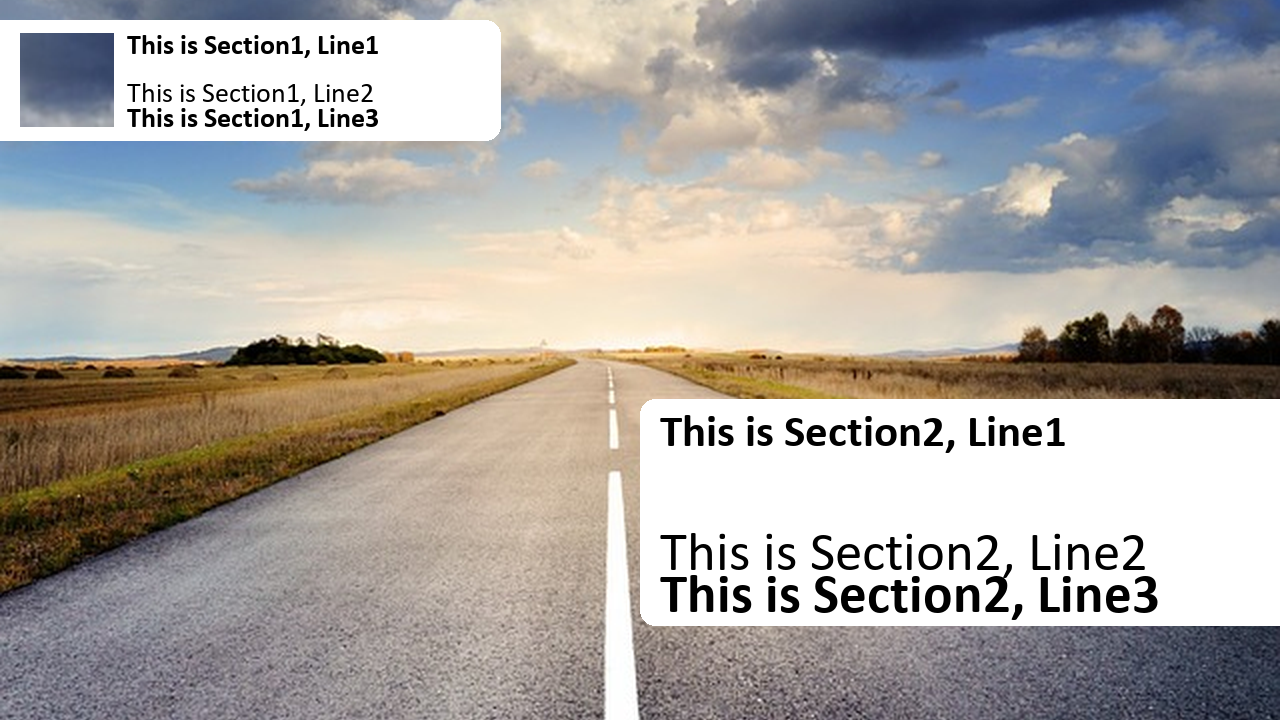
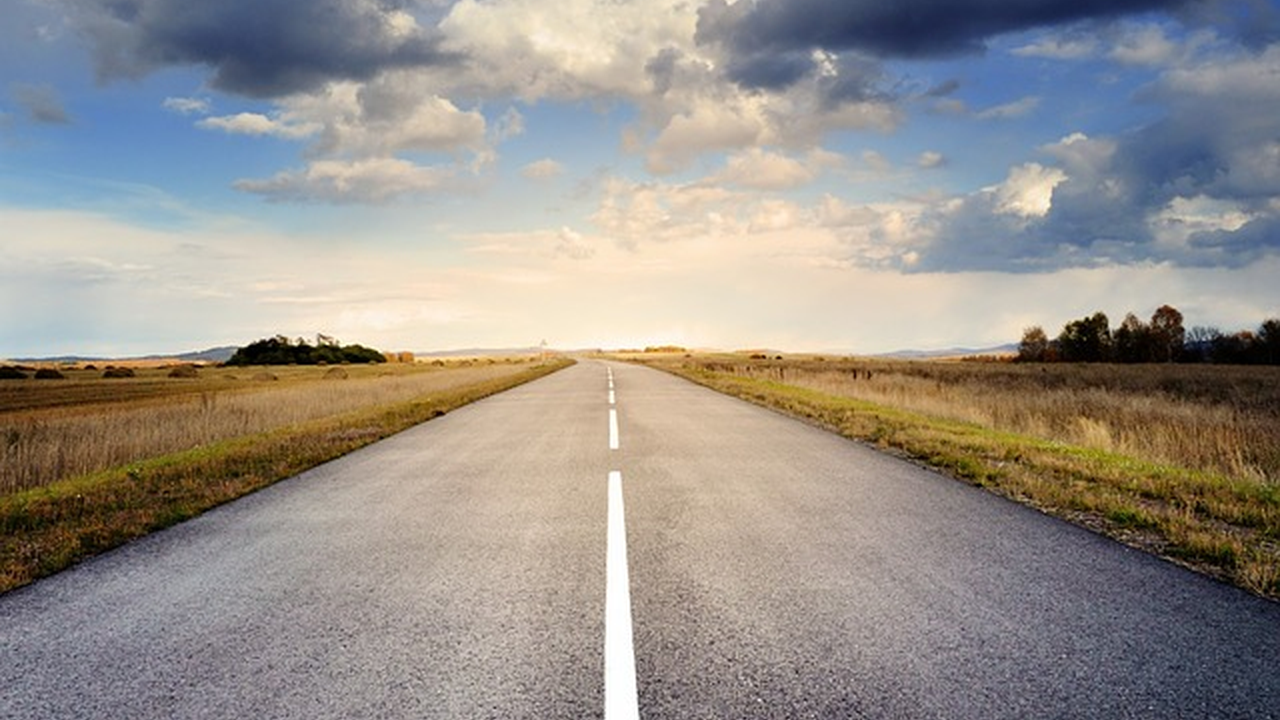
Box2 Finished, Pic1 startet

Changed region(s): [[0.5, 0.55, 1.0, 0.8861], [0.0, 0.0306, 0.4062, 0.2139]]

diff --git a/templates/classicBoxTemplate.py b/templates/classicBoxTemplate.py
@@ -35,9 +35,9 @@ class classicBoxTemplate(Template):
 		self.config["section_2"]["boxcolor"] = "#FFFFFF"
 		self.config["section_2"]["boxside"] = "right"
 		self.config["section_2"]["line1_color"]= "#000000"
-		self.config["section_2"]["line1_font"]= "calibrib"
+		self.config["section_2"]["line1_font"]= "calibri"
 		self.config["section_2"]["line2_color"]= "#000000"
-		self.config["section_2"]["line2_font"]= "calibri"
+		self.config["section_2"]["line2_font"]= "calibrib"
 		self.config["section_2"]["line3_color"]= "#000000"
 		self.config["section_2"]["line3_font"]= "calibrib"
 		#Spaces outside the box
@@ -46,12 +46,17 @@ class classicBoxTemplate(Template):
 		self.config["section_2"]["borderspace"] = 20
 		self.config["section_2"]["bottomspace"] = 75
 		#margin inside the box
-		self.config["section_2"]["topmargin"] = 13
-		self.config["section_2"]["sidemargin"] = 20
-		self.config["section_2"]["bottommargin"] = 13
+		self.config["section_2"]["topmargin"] = 15
+		self.config["section_2"]["sidemargin"] = 17
+		self.config["section_2"]["bottommargin"] = 20
 		# minimum width and height
-		self.config["section_2"]["default_content_height"] = 200  # Default Content height without margin
+		self.config["section_2"]["default_content_height"] = 166  # Default Content height without margin
 		self.config["section_2"]["default_box_width"] = 640
+		# Image 1
+		self.config["image_1"]["side"] = "right"
+		self.config["image_1"]["maximum_height"] = 150
+		self.config["image_1"]["topmargin"] = 20
+		self.config["image_1"]["sidemargin"] = 20
 		
 	def create_thumbnail(self, img: Image, data: Dict) -> Image:
 		# Set upper Box
@@ -62,7 +67,9 @@ class classicBoxTemplate(Template):
 			print("Section2")
 			img = self.down_box(img, data["section_2"])
 			
-			
+		if data["image_1"]["activate"]:
+			print("Image 1")
+			img = self.add_picture_1(img, data["image_1"])
 		return img
 
 	def upper_box(self, img: Image, data: Dict, logodata: Dict) -> Image:
@@ -134,6 +141,7 @@ class classicBoxTemplate(Template):
 		# Line2
 		drawing.text((line_x, y2-data["bottommargin"] - line1_font.getsize("o")[1]), data["line2_text"], anchor="lb", font=line2_font, fill=data["line2_color"])
 		
+		logo.close()
 		return img
 
 	def down_box(self, img: Image, data: Dict) -> Image:
@@ -181,44 +189,22 @@ class classicBoxTemplate(Template):
 		drawing.text((line_x, line3_y), data["line3_text"], anchor="ls", font=line3_font, fill=data["line3_color"])
 
 		# Line2
-		drawing.text((line_x, y2-data["bottommargin"] - line1_font.getsize("o")[1]), data["line2_text"], anchor="lb", font=line2_font, fill=data["line2_color"])
+		drawing.text((line_x, y2-data["bottommargin"] - line1_font.getsize("y2")[1]-14), data["line2_text"], anchor="lb", font=line2_font, fill=data["line2_color"])
 		
 		return img
 
 	def add_picture(self, img: Image, data: Dict) -> Image:
+		pic = Image.open(data["imagepath"])
+		if pic.height > data["maximum_height"]:
+			pic = help_shrink_image(999999, data["maximum_height"])
+
+		if data["side"] == "left":
+			x = data["sidemargin"]
+			y = data["topmargin"]
+		else:
+			x = img.width - pic.width - data["sidemargin"]
+			y = data["topmargin"]
+		img.paste(pic, (x, y))
+
+		pic.close()
 		return img
-
-def add_texts(data, mainfolder):
-	#
-	path = os.path.join(mainfolder, "Thumbnails")
-	#
-	pics = [pic for pic in os.listdir(path) if "Folie" in pic]
-
-	#Bild1
-	img = Image.open(os.path.join(path, pics[0]))
-	date = datetime.datetime.strptime(data["date"], "%Y-%m-%d %H:%M")
-	date = date.strftime("%d. %B %H:%M Uhr")
-
-	img = box_two(img, ["Herzliche Einladung!", data["type"] + " am", date])
-	img.save(os.path.join(path, pics[0]), quality=95)
-
-	#Bild2
-	img = Image.open(os.path.join(path, pics[1]))
-
-	minute = timedelta(minutes=15)
-	date = datetime.datetime.strptime(data["date"], "%Y-%m-%d %H:%M")
-	date = date - minute
-	date = date.strftime("%H:%M Uhr")
-
-	img = box_two(img, ["LIVE!\naus der Gemeinde\nab " + date])
-	img.save(os.path.join(path, pics[1]), quality=95)
-
-	#Bild3
-	img = Image.open(os.path.join(path, pics[2]))
-
-	date = datetime.datetime.strptime(data["nextdate"], "%Y-%m-%d %H:%M")
-	date = date.strftime("%d. %B %H:%M Uhr")
-
-	img = box_two(img, ["Herzliche Einladung!", data["type"] + " am", date])
-	img.save(os.path.join(path, pics[2]), quality=95)
-

diff --git a/thumbnailcreation.py b/thumbnailcreation.py
@@ -114,6 +114,11 @@ def main() -> None:
 	config["section_1"]["activate"] = True
 	config["section_2"]["activate"] = True
 	#config["section_1"]["line1_text"] = "Gemeinde Hamburg-Alstertal"
+	config["section_2"]["line1_text"] = "Herzliche Einladung!"
+	config["section_2"]["line2_text"] = "Gottesdienst am"
+	config["section_2"]["line3_text"] = "03. September um 19:30 Uhr"
+	config["image_1"]["activate"] = True
+	config["image_1"]["imagepath"] = os.path.join("examples", "example_high.jpg")
 	thumbnail.add_overlays(config)
 
 def test():
@@ -142,6 +147,9 @@ def box_two(img, data):
 		font = ImageFont.truetype("calibrib.ttf", 55)
 		drawing.multiline_text((x1 + 17, y1 + 13 + 68), data[1] + "\n" + data[2], font=font, fill="#000000", spacing=15)
 
+		#font = ImageFont.truetype("calibrib.ttf", 55)
+		#drawing.text((x1 + 15, y1 + 13 + 58 + 58), data[2], font=font, fill="#000000")
+
 	else:
 		lines = data[0].split("\n")
 		font = ImageFont.truetype("calibrib.ttf", 55)
@@ -149,4 +157,5 @@ def box_two(img, data):
 
 		drawing.multiline_text((x1 + 17, y1 + 13 + 68), lines[1] + "\n" + lines[2], font=font, fill="#000000", spacing=15)
 
+		#drawing.text((x1 + 15, y1 + 13 + 58 + 58), lines[2], font=font, fill="#000000")
 	return img
